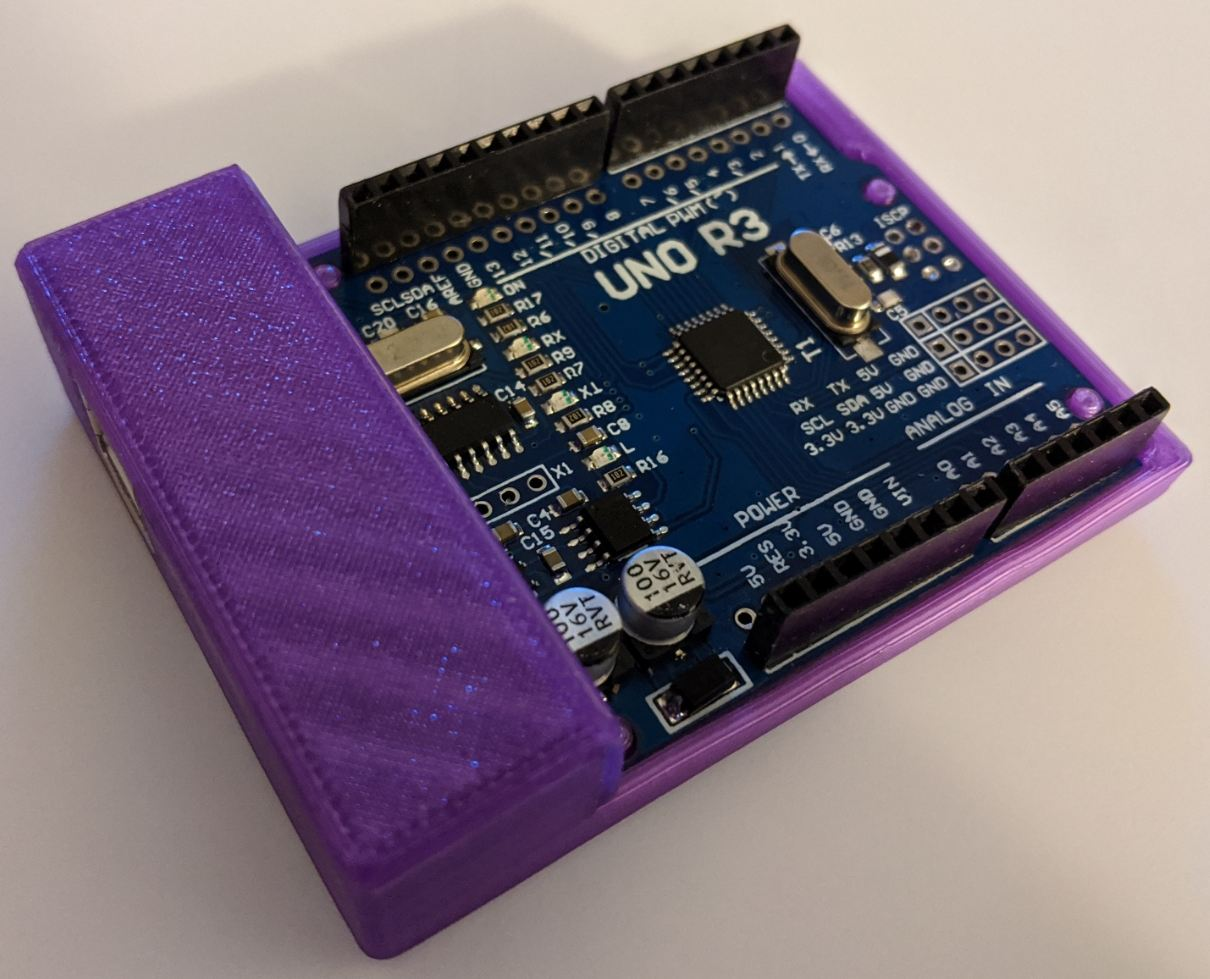
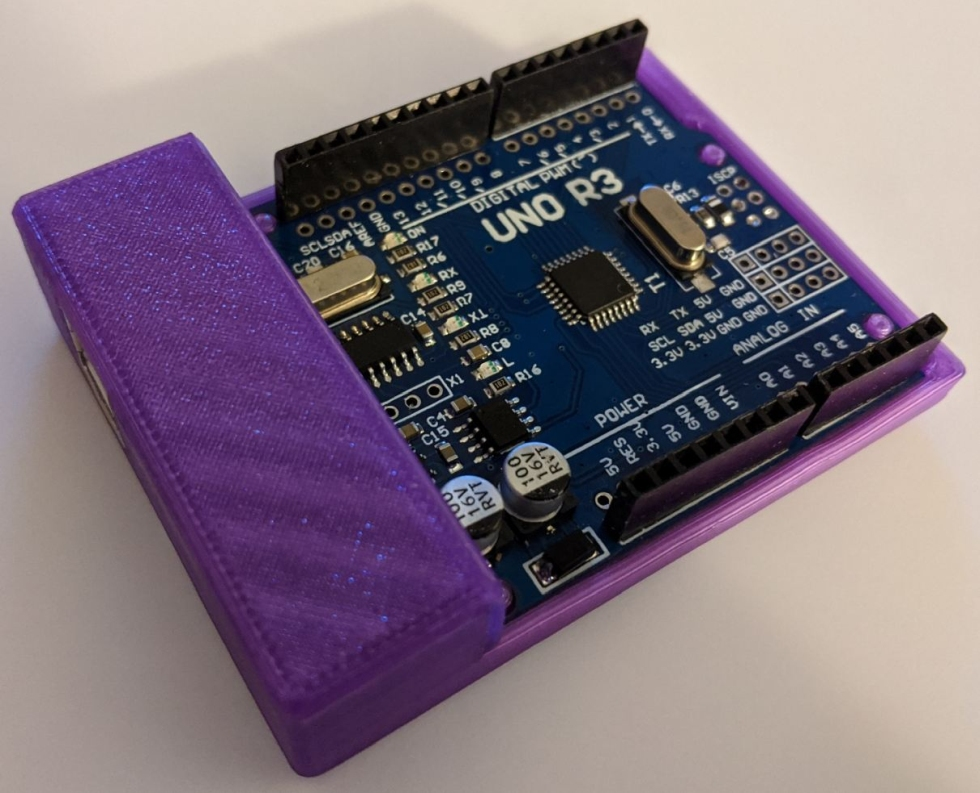
Adding photos of the arduino. And resizing all the photos

diff --git a/README.md b/README.md
@@ -36,8 +36,13 @@ I will describe bellow all the necesary steps, but first here is a table of cont
 
 ## Actual Devices
 ### Programming *'device'*
-*This is just an Arduino UNO R3, encased in a 3D printed skin.  
- The intent is to prevent causing an accidentals short circuit when carelesly placing it over some wire on the table.*
+*This is just an Arduino UNO R3...*  
+![](https://github.com/RazMake/ArduinoUNOMultiProgrammer/blob/master/Photos/ArduinoUno.jpg?raw=true)  
+*...encased in a 3D printed skin.  
+In order to prevent accidentals short circuit when carelesly placing it over some wire or pin on the table.*  
+![](https://github.com/RazMake/ArduinoUNOMultiProgrammer/blob/master/Photos/ArduinoUno_InCase_Open.jpg?raw=true)  
+![](https://github.com/RazMake/ArduinoUNOMultiProgrammer/blob/master/Photos/ArduinoUno_InCase_Closed.jpg?raw=true)  
+ 
 
 ### ATTiny85 programming adapter
 *The programming adapter connects to the Arduino, which in turn connects to the computer over USB.*
